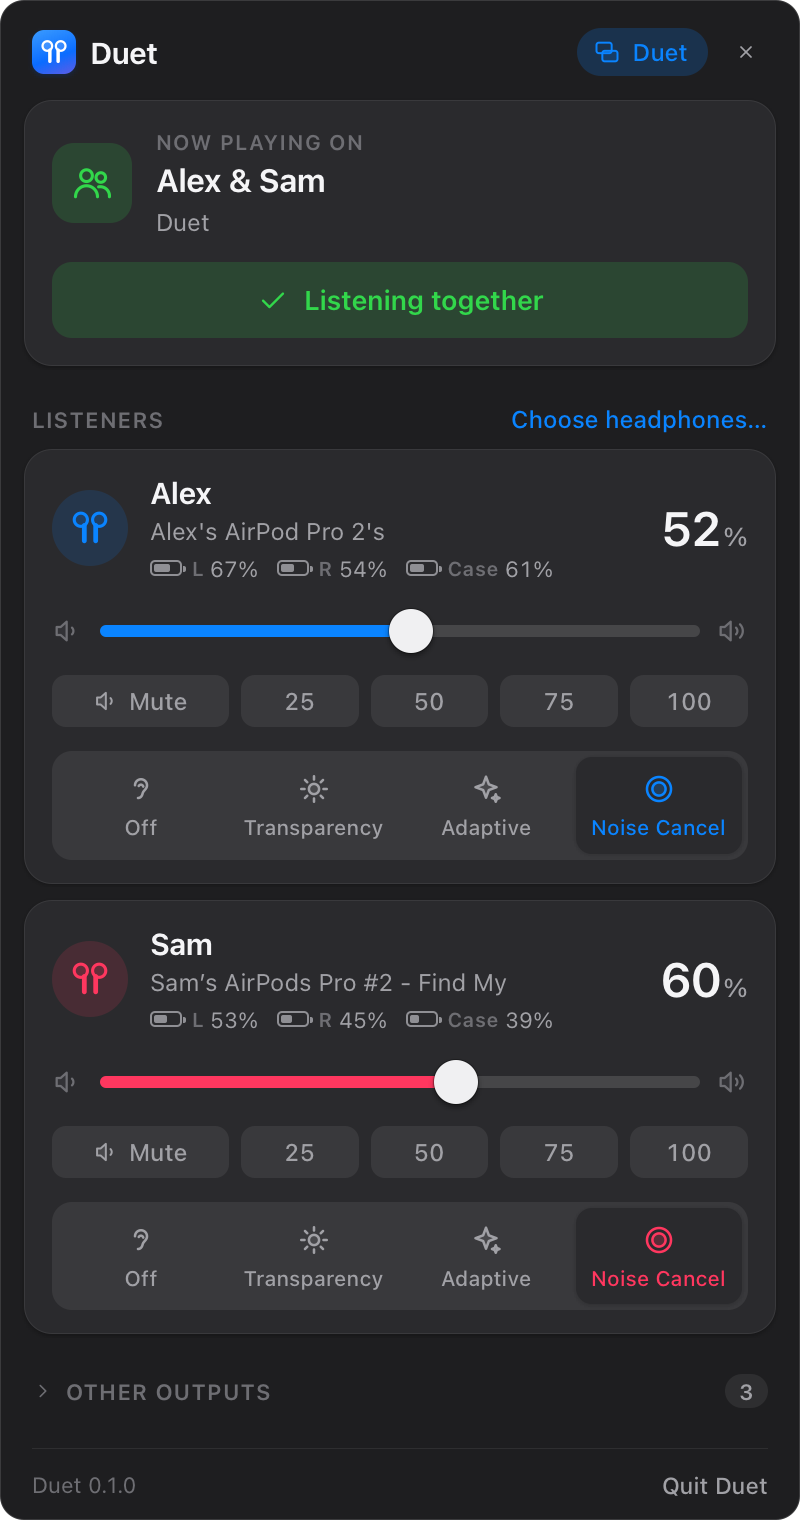
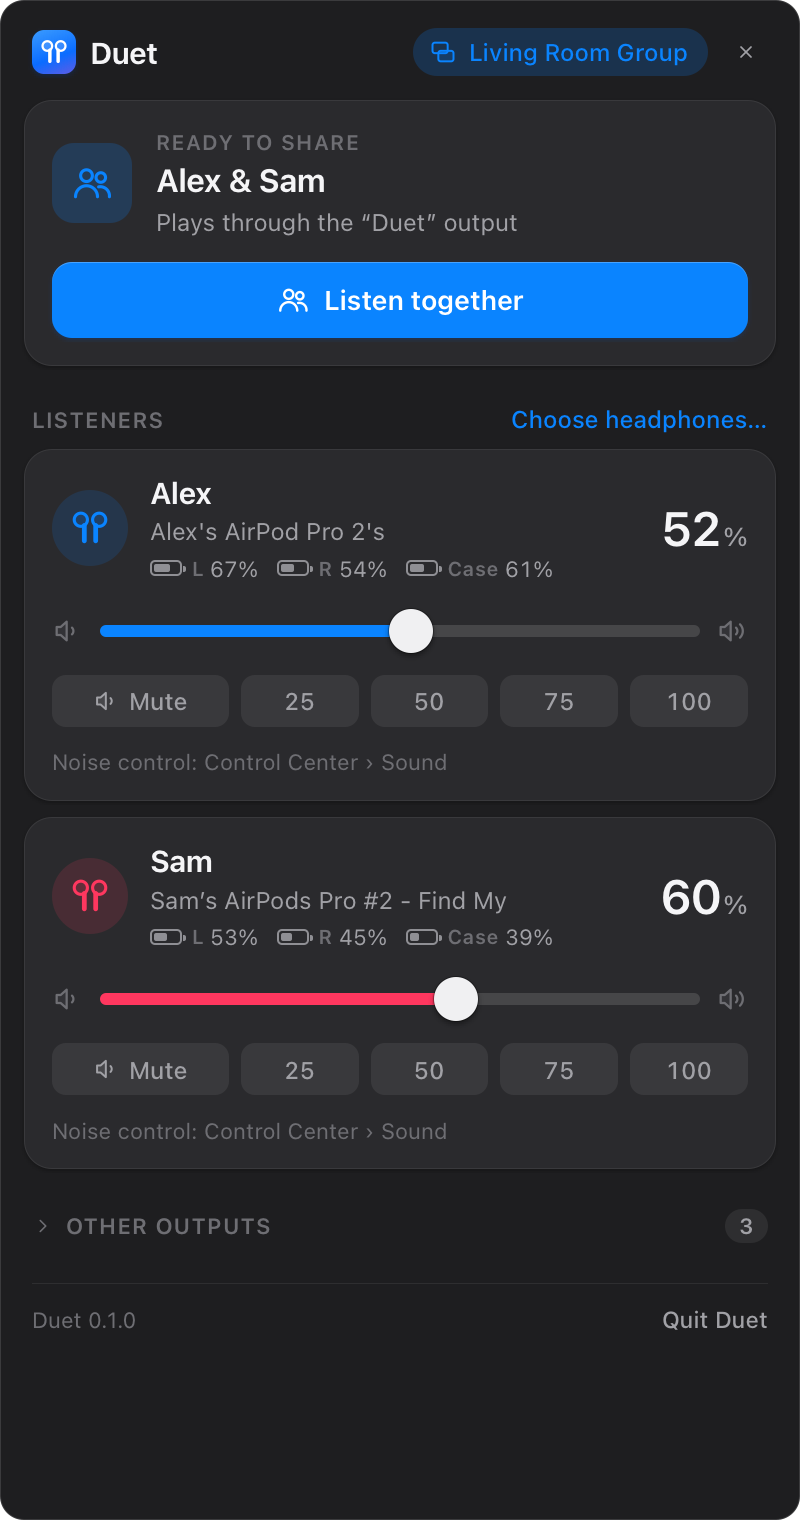
Honest noise control: point at Control Center on macOS, v0.2.0
macOS keeps the AirPods control channel to itself, so Duet can read battery
but cannot switch Off/Transparency/Adaptive/ANC. Instead of hiding the fact,
each AirPods/Beats card now says where the switch lives ("Noise control:
Control Center > Sound"). Windows shows nothing (no API), Linux keeps the
in-app switcher over AAP.

- logic::noise_hint: Apple pair + no switchable modes + a platform hint
- widened aap::looks_apple to match "AirPod Pro 2's" (singular) as well
- DUET_MOCK=hint demo variant mirrors current macOS (battery, read-only modes)
- README/site copy and screenshots updated to match; version 0.2.0

diff --git a/assets/main.css b/assets/main.css
@@ -565,6 +565,12 @@ svg { display: block; width: 100%; height: 100%; }
 .nc-icon, .nc-icon svg { width: 18px; height: 18px; display: block; }
 .nc-label { max-width: 100%; overflow: hidden; text-overflow: ellipsis; white-space: nowrap; }
 
+/* ---- Quiet hint (where a platform keeps a setting Duet can't change) ----- */
+.hint {
+  margin-top: 10px; font-size: 11px; line-height: 1.35;
+  color: var(--text-3);
+}
+
 /* ---- Choose headphones ---------------------------------------------------- */
 .section-row { display: flex; align-items: baseline; justify-content: space-between; margin: 18px 4px 7px; }
 .section-row .section-label { margin: 0; }

diff --git a/src/ui/logic.rs b/src/ui/logic.rs
@@ -671,6 +671,21 @@ pub fn battery_parts(b: &crate::audio::Battery) -> Vec<(&'static str, u8)> {
         .collect()
 }
 
+/// Where to send the user for noise control when Duet can't offer the buttons.
+///
+/// Only AirPods/Beats are mentioned (they're the ones that answer to the OS),
+/// and only when the device reports battery but no switchable modes — i.e. the
+/// platform reads the pair but can't change it.
+pub fn noise_hint(
+    device_name: &str,
+    info: &crate::audio::HeadphoneInfo,
+    hint: Option<&'static str>,
+) -> Option<&'static str> {
+    let hint = hint?;
+    let apple = crate::audio::aap::looks_apple(device_name, None);
+    (apple && info.supported_modes.is_empty()).then_some(hint)
+}
+
 /// A mode the user just picked wins over polled state until the device reports
 /// it (or a few seconds pass), so the switcher doesn't flicker back.
 #[derive(Debug, Default, Clone, PartialEq)]
@@ -1227,6 +1242,39 @@ mod tests {
             "Jordan"
         );
         assert_eq!(display_name(&cfg, "v", "   "), "   ");
+    }
+
+    #[test]
+    fn noise_hint_only_for_apple_pairs_duet_cant_switch() {
+        use crate::audio::{Battery, HeadphoneInfo, ListeningMode};
+        let battery = Battery {
+            left: Some(80),
+            right: Some(75),
+            case: Some(40),
+            single: None,
+        };
+        let read_only = HeadphoneInfo {
+            listening_mode: None,
+            supported_modes: vec![],
+            battery,
+        };
+        let switchable = HeadphoneInfo {
+            listening_mode: Some(ListeningMode::Transparency),
+            supported_modes: ListeningMode::ALL.to_vec(),
+            battery,
+        };
+        let hint = Some("Control Center \u{203a} Sound");
+        // AirPods that Duet can only read: point at the OS.
+        assert_eq!(noise_hint("Alex's AirPod Pro 2's", &read_only, hint), hint);
+        assert_eq!(
+            noise_hint("Sam\u{2019}s Beats Studio", &read_only, hint),
+            hint
+        );
+        // Nothing to point at when Duet can switch them itself, when the pair
+        // isn't an Apple one, or when this platform has no such setting.
+        assert_eq!(noise_hint("Alex's AirPod Pro 2's", &switchable, hint), None);
+        assert_eq!(noise_hint("Sony WH-1000XM5", &read_only, hint), None);
+        assert_eq!(noise_hint("Alex's AirPod Pro 2's", &read_only, None), None);
     }
 
     #[test]

diff --git a/site/src/main.rs b/site/src/main.rs
@@ -170,7 +170,7 @@ fn Hero(os: Os) -> Element {
                         }
                         img {
                             src: SHOT_LIGHT,
-                            alt: "The Duet panel: two listeners, Alex and Sam, each with a volume slider, battery levels and noise control, listening together.",
+                            alt: "The Duet panel: two listeners, Alex and Sam, each with a volume slider and battery levels, listening together.",
                             width: "400",
                             height: "760",
                         }
@@ -208,8 +208,8 @@ fn Features() -> Element {
             icon: || rsx! {
                 WaveIcon {}
             },
-            title: "Noise control & battery",
-            body: "Switch AirPods between Off, Transparency, Adaptive and Noise Cancellation, and see left, right and case battery.",
+            title: "Battery, at a glance",
+            body: "Left, right and case battery for every pair, refreshed as you listen. Noise control is one click away in Control Center.",
         },
         Feature {
             icon: || rsx! {
@@ -352,7 +352,7 @@ fn Install() -> Element {
                         }
                         li {
                             CheckIcon {}
-                            span { "Noise control and battery: AirPods and Beats" }
+                            span { "Battery levels for AirPods and Beats" }
                         }
                     }
                     div { class: "cta",

diff --git a/src/audio/mock.rs b/src/audio/mock.rs
@@ -129,6 +129,8 @@ pub struct MockBluetooth {
     pub devices: Mutex<Vec<BluetoothDevice>>,
     /// Noise-control mode per address (every mock headphone supports all four).
     pub modes: Mutex<std::collections::HashMap<String, ListeningMode>>,
+    /// Behave like current macOS: battery readable, noise control not switchable.
+    pub read_only: bool,
 }
 
 impl MockBluetooth {
@@ -152,6 +154,7 @@ impl MockBluetooth {
                 b("11-22-33-44-55-66", "MX Master 3", false, false),
             ]),
             modes: Mutex::new(Default::default()),
+            read_only: false,
         }
     }
     fn set(&self, address: &str, connected: bool) -> Result<()> {
@@ -190,6 +193,19 @@ impl BluetoothBackend for MockBluetooth {
             .bytes()
             .fold(7u32, |a, b| a.wrapping_mul(31).wrapping_add(b as u32));
         let level = |k: u32| Some((35 + (seed / k) % 65) as u8);
+        if self.read_only {
+            // Battery is still reported; the mode is not something Duet may change.
+            return Ok(Some(HeadphoneInfo {
+                listening_mode: None,
+                supported_modes: Vec::new(),
+                battery: Battery {
+                    left: level(3),
+                    right: level(5),
+                    case: level(11),
+                    single: None,
+                },
+            }));
+        }
         Ok(Some(HeadphoneInfo {
             listening_mode: Some(mode),
             supported_modes: ListeningMode::ALL.to_vec(),

diff --git a/src/ui/demo.rs b/src/ui/demo.rs
@@ -72,7 +72,7 @@ pub fn mock_backends(variant: &str) -> Backends {
     {
         let mut devs = audio.devices.lock().unwrap();
         match variant {
-            "full" => {}
+            "full" | "hint" => {}
             // Two headphones Duet has never seen: proposes a new group.
             "new" => {
                 for d in devs.iter_mut().filter(|d| d.id == 10 || d.id == 11) {
@@ -98,8 +98,11 @@ pub fn mock_backends(variant: &str) -> Backends {
             }
         }
     }
-    let bt = MockBluetooth::sample();
-    if variant == "full" || variant == "new" {
+    // `hint` mirrors current macOS: both pairs connected, battery readable,
+    // noise control only switchable in Control Center.
+    let mut bt = MockBluetooth::sample();
+    bt.read_only = variant == "hint";
+    if matches!(variant, "full" | "new" | "hint") {
         bt.connect("02-1B-2C-3D-4E-5F").ok();
     }
     Backends {

diff --git a/src/audio/aap.rs b/src/audio/aap.rs
@@ -202,7 +202,9 @@ pub fn looks_apple(name: &str, modalias: Option<&str>) -> bool {
         return true;
     }
     let n = name.to_ascii_lowercase();
-    n.contains("airpods") || n.contains("beats")
+    // macOS names the 2nd-gen pair "Eric's AirPod Pro 2's" (singular), so match
+    // the stem rather than "airpods".
+    n.contains("airpod") || n.contains("beats")
 }
 
 /// `l2_bdaddr` bytes for "AA-BB-CC-DD-EE-FF" / "aa:bb:...": BlueZ stores addresses
@@ -444,6 +446,7 @@ mod tests {
         assert_eq!(parse_modalias("bluetooth:v004Cx2014"), None);
         assert!(looks_apple("Headphones", Some("bluetooth:v004Cp2014d6105")));
         assert!(looks_apple("Alex's AirPods Pro", None));
+        assert!(looks_apple("Alex's AirPod Pro 2's", None));
         assert!(looks_apple(
             "Beats Studio Pro",
             Some("bluetooth:v004Cp2024")

diff --git a/src/ui/platform.rs b/src/ui/platform.rs
@@ -1,5 +1,20 @@
 //! Per-OS hooks the UI calls but doesn't implement itself.
 
+/// Where to change AirPods noise control when Duet can't (macOS keeps the
+/// Bluetooth control channel for itself, so only Control Center can switch it).
+/// `None` where Duet does it in-app (Linux) or the OS has nothing to change
+/// (Windows).
+pub fn noise_control_hint() -> Option<&'static str> {
+    #[cfg(target_os = "macos")]
+    {
+        Some("Control Center › Sound")
+    }
+    #[cfg(not(target_os = "macos"))]
+    {
+        None
+    }
+}
+
 /// Open the system Bluetooth settings (offered when a connect fails, e.g. on
 /// Windows where connecting must go through Settings).
 pub fn open_bluetooth_settings() -> Result<(), String> {

diff --git a/src/ui/app.rs b/src/ui/app.rs
@@ -991,6 +991,13 @@ fn ListenerCard(listener: Listener, index: usize) -> Element {
         }
         _ => rsx! {},
     };
+    let hint = extras.as_ref().and_then(|(_, info)| {
+        noise_hint(
+            &device_name,
+            info,
+            crate::ui::platform::noise_control_hint(),
+        )
+    });
 
     let controls = match &listener {
         Listener::Connected(d) if d.volume.is_some() => {
@@ -1034,6 +1041,9 @@ fn ListenerCard(listener: Listener, index: usize) -> Element {
             }
             {controls}
             {noise}
+            if let Some(h) = hint {
+                div { class: "hint", "Noise control: {h}" }
+            }
         }
     }
 }

diff --git a/README.md b/README.md
@@ -3,14 +3,14 @@
 **Two pairs of headphones, one computer, separate volumes.**
 
 Duet plays your computer's audio on two pairs of AirPods (or any Bluetooth headphones)
-at once, with a separate volume for each pair, plus noise control and battery for AirPods.
+at once, with a separate volume for each pair, plus AirPods battery levels.
 It lives in the macOS menu bar (Windows system tray / Linux tray icon on the experimental
 builds), works fully offline, and is a single small Rust app.
 
 <p align="center">
   <picture>
     <source media="(prefers-color-scheme: dark)" srcset="docs/screenshot-dark.png">
-    <img src="docs/screenshot-light.png" alt="The Duet panel with two listeners, each with its own volume, battery and noise control" width="360">
+    <img src="docs/screenshot-light.png" alt="The Duet panel with two listeners, each with its own volume slider and battery levels" width="360">
   </picture>
 </p>
 
@@ -54,8 +54,11 @@ in System Settings › General › Login Items.
   AirPods), Duet switches it back so nobody drops out. Pick another output in Duet (or the
   Sound menu) and it stops.
 - **Each listener card**: its own volume slider (the Mac's volume keys don't work on
-  Multi-Output devices), Mute and presets, battery (left/right/case), and for AirPods/Beats
-  with noise control: **Off / Transparency / Adaptive / Noise Cancellation**. Click a name to rename it.
+  Multi-Output devices), Mute and presets, and battery (left/right/case). Click a name to rename it.
+- **Noise control** is switchable inside Duet only where the OS allows it (Linux, over Apple's
+  AAP protocol). On macOS, Apple keeps that Bluetooth channel to itself — the card says
+  "Noise control: Control Center › Sound" and you switch Off / Transparency / Adaptive /
+  Noise Cancellation there. Windows exposes no API for it at all.
 - **Other outputs** lets you go back to just the speakers or one pair.
 
 While listening together Duet also moves the default **microphone** off the AirPods to the
@@ -76,8 +79,8 @@ WebView2 on Windows, WebKitGTK on Linux), and everything else goes through syste
 
 | | Audio | Bluetooth | Noise control & battery |
 |---|---|---|---|
-| macOS | CoreAudio (Multi-Output device) | IOBluetooth | IOBluetooth private properties (what Control Center uses) |
-| Windows | WASAPI + Duet's own audio mirror | WinRT Bluetooth (list only) | not available (Windows exposes no API for it) |
+| macOS | CoreAudio (Multi-Output device) | IOBluetooth | battery readable; noise control only in Control Center (macOS keeps that channel) |
+| Windows | WASAPI + Duet's own audio mirror | WinRT Bluetooth (list only) | none (Windows exposes no API for it) |
 | Linux | PulseAudio/PipeWire `module-combine-sink` | `bluetoothctl` | Apple's AAP protocol over L2CAP (as in LibrePods) — experimental |
 
 ## Platforms
